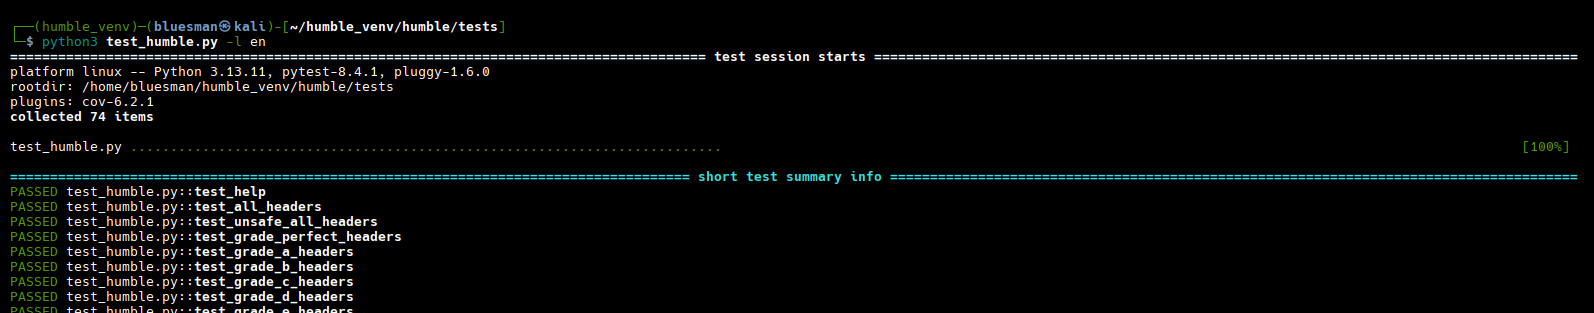
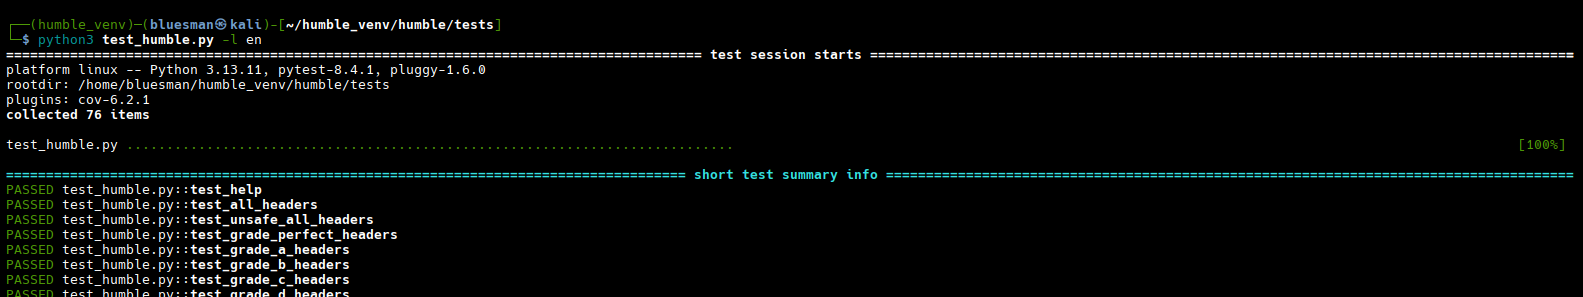
Feature: 2 new unit tests and 96% code coverage

diff --git a/tests/test_humble.py b/tests/test_humble.py
@@ -65,6 +65,7 @@ HUMBLE_TEST_FILES = {
     'NO_HEADERS': 'headers_test_none.txt',
     'NO_SEC_HEADERS': 'headers_test_nonesecurity.txt',
     'NONEXISTENT': 'headers_test_nonexistent.txt',
+    'PERFECT_OWASP': 'headers_test_perfect_owasp.txt',
     'UNICODE': 'headers_test_unicode.txt',
 }
 PATHS = {k: path.abspath(path.join(HUMBLE_TESTS_DIR, v)) for k, v in
@@ -162,6 +163,9 @@ TEST_CFGS = {
     'test_export_pdf_empty_headers': (['-u', TEST_URLS[9], '-if',
                                        PATHS['GRADE_D'], '-o', 'pdf'],
                                       'PDF saved'),
+    'test_export_pdf_no_security_headers': (['-u', TEST_URLS[9], '-if',
+                                             PATHS['NO_SEC_HEADERS'], '-o',
+                                             'pdf'], 'PDF saved'),
     'test_export_xlsx': (['-u', TEST_URLS[9], '-o', 'xlsx'], 'XLSX saved'),
     'test_export_xml': (['-u', TEST_URLS[9], '-o', 'xml'], 'XML saved'),
     'test_fingerprint_groups': (['-f'], 'Top 20 groups'),
@@ -189,6 +193,8 @@ TEST_CFGS = {
                                   PATHS['NO_SEC_HEADERS']], 'are present'),
     'test_owasp_compliance': (['-u', TEST_URLS[9], '-c'],
                               'non-recommended values'),
+    'test_owasp_perfect_compliance': (['-u', TEST_URLS[9], '-c', '-if',
+                                       PATHS['PERFECT_OWASP']], 'Nothing'),
     'test_proxy_unreachable': (['-u', TEST_URLS[9], '-p', TEST_URLS[7]],
                                'reachable'),
     'test_redirects': (['-u', TEST_URLS[9], '-df'], 'Analysis Grade:'),
@@ -211,7 +217,7 @@ TEST_CFGS = {
                              'expressly excluded'),
     'test_unicode_error': (['-u', TEST_URLS[9], '-if', PATHS['UNICODE']],
                            'unicode'),
-    'test_unreliable_analysis': (['-u', TEST_URLS[10]], 'reliable'),
+    'test_unreliable_analysis': (['-u', TEST_URLS[10]], 'Not'),
     'test_unsupported_header': (['-u', TEST_URLS[9], '-s', 'testhumbleheader'],
                                 'testhumbleheader'),
     'test_updates': (['-v'], 'Keeping your security tools'),
@@ -472,7 +478,7 @@ def cleanup_analysis_history():
             fsync(original_file.fileno())
 
 
-local_version = datetime.strptime('2026-01-10', '%Y-%m-%d').date()
+local_version = datetime.strptime('2026-01-16', '%Y-%m-%d').date()
 parser = ArgumentParser(
     formatter_class=lambda prog: RawDescriptionHelpFormatter(
         prog, max_help_position=34

diff --git a/humble.py b/humble.py
@@ -176,7 +176,7 @@ XFRAME_CHECK = 'X-Frame-Options ('
 XML_STRING = ('Ref: ', 'Value: ', 'Valor: ')
 
 current_time = datetime.now().strftime("%Y/%m/%d - %H:%M:%S")
-local_version = datetime.strptime('2026-01-10', '%Y-%m-%d').date()
+local_version = datetime.strptime('2026-01-16', '%Y-%m-%d').date()
 
 BANNER_VERSION = f'{URL_LIST[4]} | v.{local_version}'
 
@@ -3725,7 +3725,7 @@ if '-c' in sys.argv:
     args.user_agent = '1'
 
 if '-if' in sys.argv:
-    if any([args.redirects, args.ret, args.user_agent]):
+    if any([args.redirects, args.ret]):
         print_error_detail('[args_inputfile]')
     elif not args.URL:
         print_error_detail('[args_urlinputfile]')

diff --git a/README.md b/README.md
@@ -6,7 +6,7 @@
 <a target="_blank" href="https://devguide.python.org/versions/" title="Minimum Python version required to run this tool"><img src="https://img.shields.io/badge/Python-%3E%3D3.11-blue?labelColor=343b41"></a>
 <a target="_blank" href="LICENSE" title="License of this tool"><img src="https://img.shields.io/badge/License-MIT-blue.svg?labelColor=343b41"></a>
 <a target="_blank" href="https://github.com/rfc-st/humble/releases" title="Latest release of this tool"><img src="https://img.shields.io/github/v/release/rfc-st/humble?display_name=release&label=Latest%20Release&labelColor=343b41"></a>
-<a target="_blank" href="https://github.com/rfc-st/humble/commits/master" title="Latest commit of this tool"><img src="https://img.shields.io/badge/Latest_Commit-2026--01--10-blue.svg?labelColor=343b41"></a>
+<a target="_blank" href="https://github.com/rfc-st/humble/commits/master" title="Latest commit of this tool"><img src="https://img.shields.io/badge/Latest_Commit-2026--01--16-blue.svg?labelColor=343b41"></a>
 <a target="_blank" href="https://pkg.kali.org/pkg/humble" title="Official tool in Kali Linux"><img src="https://img.shields.io/badge/Kali%20Linux-Tool-blue?labelColor=343b41"></a>
 <br />
 <a target="_blank" href="#" title="Featured on:"><img src="https://img.shields.io/badge/Featured%20on:-343b41"></a>
@@ -23,7 +23,7 @@
 <a target="_blank" href="https://github.com/rfc-st/humble/actions/workflows/bandit-security-scan.yml" title="Vulnerability analysis with Bandit"><img src="https://github.com/rfc-st/humble/actions/workflows/bandit-security-scan.yml/badge.svg"></a>
 <a target="_blank" href="https://github.com/rfc-st/humble/actions/workflows/codeql-analysis.yml?query=workflow%3ACodeQL" title="Vulnerability analysis with CodeQL"><img src="https://github.com/rfc-st/humble/workflows/CodeQL/badge.svg"></a>
 <a target="_blank" href="https://humble.readthedocs.io/en/latest/" title="Status of documentation in 'Read The Docs'"><img src="https://img.shields.io/badge/documentation-passing-32bd50?labelColor=343b41"></a>
-<a target="_blank" href="https://github.com/rfc-st/humble/?tab=readme-ov-file#unit-tests" title="Code coverage with pytest-cov"><img src="https://img.shields.io/badge/code%20coverage-95%25-32bd50?labelColor=343b41"></a>
+<a target="_blank" href="https://github.com/rfc-st/humble/?tab=readme-ov-file#unit-tests" title="Code coverage with pytest-cov"><img src="https://img.shields.io/badge/code%20coverage-96%25-32bd50?labelColor=343b41"></a>
 <a target="_blank" href="https://github.com/rfc-st/humble/actions/workflows/vulture.yml" title="Dead Code analysis with vulture"><img src="https://img.shields.io/badge/vulture-passing-32bd50?labelColor=343b41"></a>
 <a target="_blank" href="https://www.bestpractices.dev/projects/9543" title="Analysis of OpenSSF best practices"><img src="https://www.bestpractices.dev/projects/9543/badge"></a>
 <br />
@@ -451,7 +451,6 @@ $ cd tests
 $ cd <humble dir>
 $ cd tests
 (Linux)   $ pytest test_humble.py --cov-config=.coveragerc --cov=.. --cov-report=html --tb=no -rA -q -v -W ignore -p no:cacheprovider -o dont_write_bytecode=True
-(Windows) $ py -m pytest test_humble.py --cov-config=.coveragerc --cov=.. --cov-report=html --tb=no -rA -q -v -W ignore -p no:cacheprovider -o dont_write_bytecode=True
 $ cd humble_coverage_report
 Open the index.html file in a browser.
 ```
@@ -475,7 +474,7 @@ Open the index.html file in a browser.
 > - `-q`: Quiet mode (during the analysis)
 > - `-v`: Verbose mode (after the analysis)
 > - `-W ignore`: Ignore all warnings during test execution
-> - `--p no:cacheprovider`: Prevents creation of .pytest_cache
+> - `--p no:cacheprovider`: Prevents creation of `.pytest_cache`
 > - `-o dont_write_bytecode=True`: Prevents creation of `__pycache__` folders
 
 ## Checks: enabled headers
